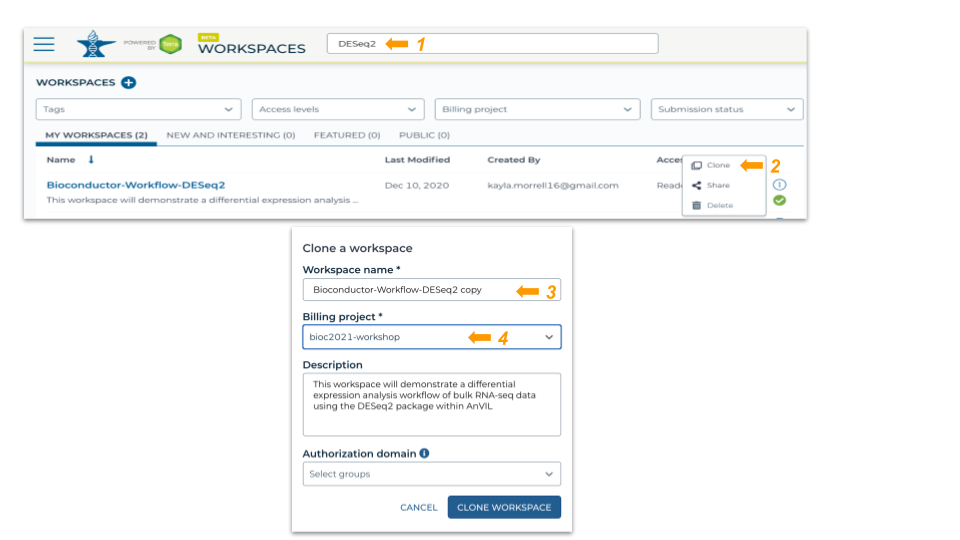
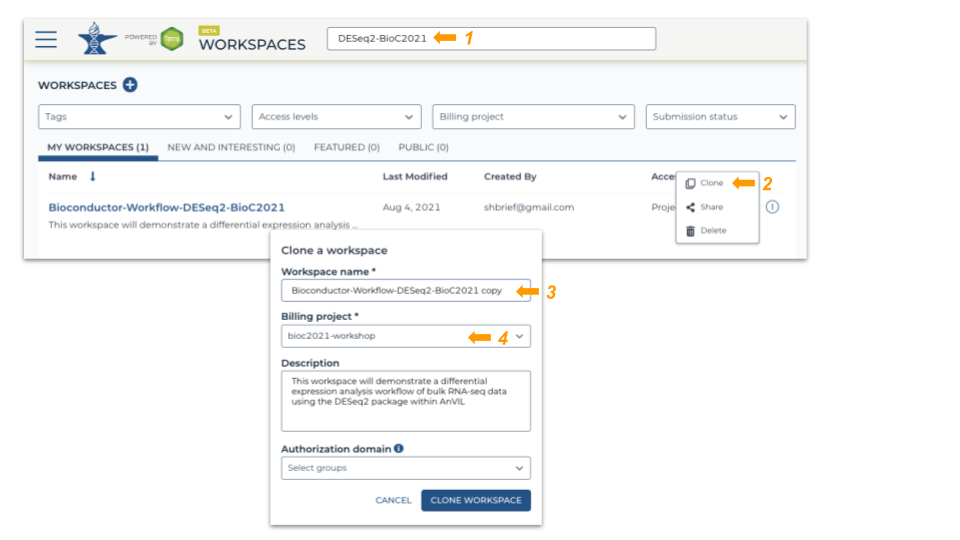
Deploying to gh-pages from  @ b93f3cfd9e697cc51bf9e51a57f949477c137b81 🚀

Changed region(s): [[0.0312, 0.1481, 0.8438, 1.0], [0.0312, 0.0296, 0.8438, 0.1185]]

diff --git a/articles/live-demo.html b/articles/live-demo.html
@@ -133,7 +133,7 @@
 <p>If necessary, install the AnVILPublish library.</p>
 <div class="sourceCode" id="cb1"><pre class="downlit sourceCode r">
 <code class="sourceCode R"><span class="kw">if</span> <span class="op">(</span><span class="op">!</span><span class="st">"AnVILPublish"</span> <span class="op">%in%</span> <span class="fu"><a href="https://rdrr.io/r/base/colnames.html">rownames</a></span><span class="op">(</span><span class="fu"><a href="https://rdrr.io/r/utils/installed.packages.html">installed.packages</a></span><span class="op">(</span><span class="op">)</span><span class="op">)</span><span class="op">)</span>
-    <span class="fu">BiocManager</span><span class="fu">::</span><span class="fu"><a href="https://rdrr.io/pkg/BiocManager/man/install.html">install</a></span><span class="op">(</span><span class="st">"AnVILPublish"</span><span class="op">)</span></code></pre></div>
+    <span class="fu">AnVIL</span><span class="fu">::</span><span class="fu"><a href="https://rdrr.io/pkg/AnVIL/man/localize.html">install</a></span><span class="op">(</span><span class="st">"AnVILPublish"</span><span class="op">)</span></code></pre></div>
 <p>There are only a small number of functions in the package; it is likely best practice to invoke these using <code>AnVILPublish::...()</code> rather than attaching the package to the search path.</p>
 </div>
 <div id="the-gcloud-sdk" class="section level3">

diff --git a/articles/overview.html b/articles/overview.html
@@ -241,6 +241,7 @@ In this tab you can check on the status of workflow submissions, and dig down in
 <p>The Code &amp; Workflows section contains various tools and tasks that make up components of workflows. Users familiar with running workflows can use this repository to find workflow components to run individually or to string together using Workflow Description Language (WDL).</p>
 <p>This section also includes links to other helpful open source workflow repositories. Look to the right of the Code &amp; Workflows tab under “FIND ADDITIONAL WORKFLOWS.”</p>
 <p><img src="images/code_workflows.png"></p>
+<p><br></p>
 </div>
 </div>
 <div id="examples-for-todays-workshop" class="section level1">
@@ -265,7 +266,7 @@ In this tab you can check on the status of workflow submissions, and dig down in
 <td></td>
 <td>Teaching</td>
 <td>Terra</td>
-<td>Convenient setup</td>
+<td>Convenient setup + Collaboration</td>
 </tr>
 <tr class="odd">
 <td>Live demo</td>
@@ -289,7 +290,7 @@ In this tab you can check on the status of workflow submissions, and dig down in
 <td>Hands-on</td>
 <td>DESeq2</td>
 <td>Terra</td>
-<td>Demonstrate Terra Structure</td>
+<td>Demonstrate Terra</td>
 </tr>
 </tbody>
 </table>

diff --git a/articles/hands-on.html b/articles/hands-on.html
@@ -129,7 +129,7 @@
 <a href="#clone-workspace" class="anchor"></a>Clone workspace</h2>
 <p>This workspace performs bulk RNASeq differential expression from FASTQ files. Salmon quantification step is implemented in WORKFLOWS and the downstream analysis by DESeq2 is available under NOTEBOOKS.</p>
 <ol style="list-style-type: decimal">
-<li>Login to Terra and navigate to <strong>“Bioconductor-Workflow-DESeq2”</strong> workspace<br>
+<li>Login to Terra and navigate to <strong>“Bioconductor-Workflow-DESeq2-BioC2021”</strong> workspace<br>
 </li>
 <li>Clone this workspace:<br>
 </li>
